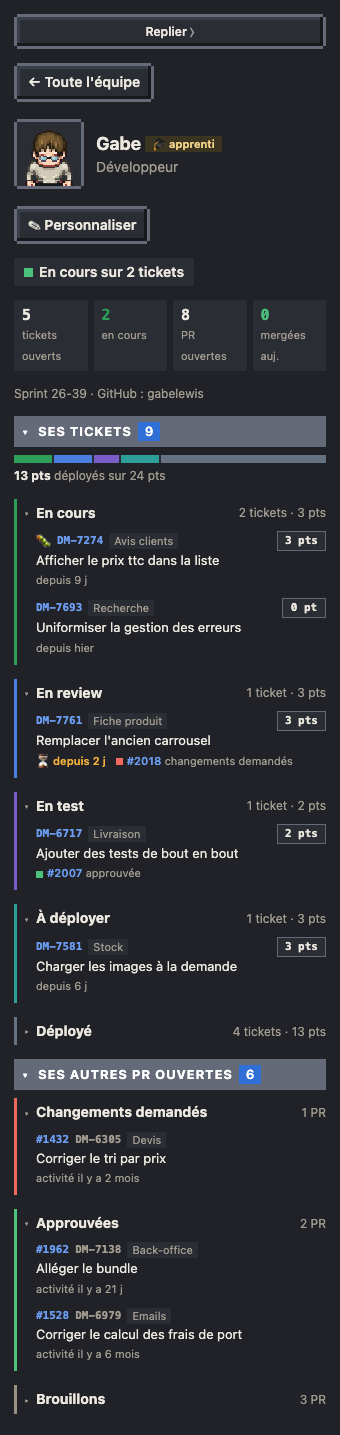
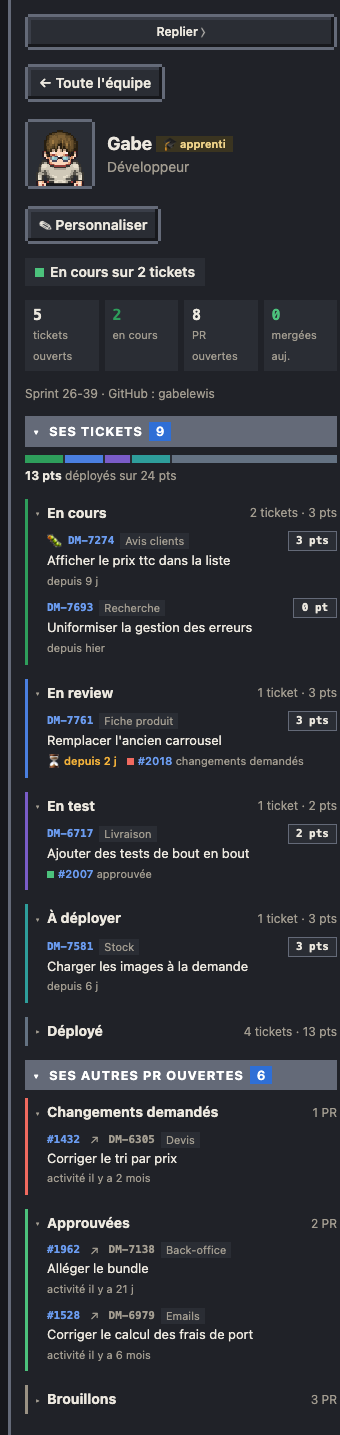
feat(page): état des PR dans « Ses PR ouvertes », le numéro ouvre la fiche de la PR
Dans les listes de PR (fiche d'un collègue, du boss, d'un ticket), le numéro ouvre la fiche de la PR (lien data-pr) et
« ↗ » ouvre GitHub ; chaque ligne montre « ⛔ conflit », « ⟳ n de retard » et « 💬 n fils » non résolus (prMarks).
Jusqu'ici la fiche d'une PR, avec ses pastilles et ses boutons, ne s'ouvrait que depuis le fil.

diff --git a/page/src/60-fiches.js b/page/src/60-fiches.js
@@ -215,7 +215,7 @@ function tkRowHtml(x){
   if(x.status&&x.status===FLOW.reopened)meta.push('<span class="tk-tag">Réouvert</span>');
   for(const p of prsOf(x.key)){
     const r=p.draft?['brouillon','var(--idle)']:TK_REV[p.review]||TK_REV.pending;
-    meta.push(`<span><span class="dot" style="background:${r[1]}"></span><a ${hrefOf(p.url)} target="_blank" rel="noopener">${esc(prNum(p))}</a> ${r[0]}</span>`);
+    meta.push(`<span><span class="dot" style="background:${r[1]}"></span><a href="#" data-pr="${esc(prId(p))}" title="Fiche de la PR">${esc(prNum(p))}</a> ${r[0]}</span>`,...prMarks(p));
   }
   return `<div class="tk-top">${x.type==='Bug'?'<span title="Bug">'+TYPE_ICO.Bug+'</span>':''}<a class="tk-key" href="${JIRA_BROWSE}${encodeURIComponent(x.key)}" target="_blank" rel="noopener" title="Ouvrir dans Jira">${esc(x.key)}</a>`+
     `${comp?`<span class="tk-comp">${esc(comp)}</span>`:''}${tkPts(x.points)}</div>`+
@@ -249,6 +249,14 @@ const prGroup=x=>x.draft?'draft':PR_GROUPS.some(([k])=>k===x.review)?x.review:'p
 const daysAgoTxt=d=>d<1?"aujourd'hui":d<2?'hier':d<60?'il y a '+Math.floor(d)+' j':'il y a '+Math.floor(d/30.4)+' mois';
 // une ligne : n° (lien GitHub), ticket cité (lien Jira, en gris : la PR est l'objet de la ligne), composant ; titre sans « feat(DM-1): » ni « [Composant] » ;
 // dernière activité (orange avec ⏳ si elle attend une review depuis plus de PR_STALE_H heures)
+// état d'une PR dans une liste (#74, #75) : conflit avec sa base, commits de retard, fils de review non résolus
+function prMarks(x){
+  const m=[];
+  if(x.conflict)m.push('<span class="prm err" title="Conflit avec sa base">⛔ conflit</span>');
+  if(x.behind>0)m.push(`<span class="prm" title="Commits de ${esc(x.base||'main')} absents de la PR">⟳ ${x.behind} de retard</span>`);
+  if(x.threads>0)m.push(`<span class="prm" title="Fils de review non résolus">💬 ${x.threads} fil${x.threads>1?'s':''}</span>`);
+  return m;
+}
 function prRowHtml(x){
   let t=String(x.title||'').replace(/^\s*\w+(\([^)]*\))?!?:\s*/,'');
   const {comp,title}=tkComp(t); t=title;
@@ -257,7 +265,8 @@ function prRowHtml(x){
   const stale=!x.draft&&prGroup(x)==='pending'&&s&&T-s>PR_STALE_H*36e5;
   if(stale)meta.push(`<span class="warn" title="Sans review depuis plus de ${PR_STALE_H} h">⏳ attend une review depuis ${daysAgoTxt((T-s)/864e5).replace(/^il y a /,'')}</span>`);
   else if(u&&u<=T)meta.push(`<span>activité ${daysAgoTxt((T-u)/864e5)}</span>`);
-  return `<div class="tk-top"><a class="tk-key" ${hrefOf(x.url)} target="_blank" rel="noopener" title="Ouvrir sur GitHub">${esc(prNum(x))}</a>${keys}`+
+  meta.push(...prMarks(x));
+  return `<div class="tk-top"><a class="tk-key" href="#" data-pr="${esc(prId(x))}" title="Fiche de la PR">${esc(prNum(x))}</a><a class="tk-gh" ${hrefOf(x.url)} target="_blank" rel="noopener" title="Ouvrir sur GitHub">↗</a>${keys}`+
     `${comp?`<span class="tk-comp">${esc(comp)}</span>`:''}</div><div class="tk-t">${esc(t)}</div>${meta.length?`<div class="tk-meta">${meta.join('')}</div>`:''}`;
 }
 function renderPerson(side,c){

diff --git a/tests/tickets-fiche.test.js b/tests/tickets-fiche.test.js
@@ -38,7 +38,7 @@ test('âge : orange avec ⏳ en review au-delà de BLOCKED_DAYS, jamais pour un 
 test('Réouvert (statut jira_flow.reopened), PR du ticket avec leur review, bug signalé', () => {
   const h = row({key: 'DM-2', summary: 'b', cat: 'doing', status: 'Reopen', type: 'Bug', since: '2026-10-07T10:00:00+02:00'});
   assert.match(h, /<span class="tk-tag">Réouvert<\/span>/);
-  assert.match(h, /href="https:\/\/x\/12"[^>]*>#12<\/a> changements demandés/);
+  assert.match(h, /data-pr="[^"]*#12"[^>]*>#12<\/a> changements demandés/);
   assert.match(h, />#14<\/a> brouillon/);
   assert.match(h, /title="Bug">🐛/);
   assert.doesNotMatch(row({key: 'DM-9', summary: 'c', cat: 'doing', status: 'En cours'}), /tk-tag|#12/);
@@ -75,7 +75,11 @@ test('« Ses autres PR » : groupe par état de review, titre sans préfixe, tic
   assert.equal(g({review: 'bizarre'}), 'pending');
   const pr = x => run(`(() => { T = ${T11}; return prRowHtml(${JSON.stringify(x)}); })()`);
   const h = pr({n: 1432, url: 'https://x/1432', title: 'feat(DM-6305): [Devis] Corriger le tri', review: 'changes', keys: ['DM-6305'], updated: '2026-08-07T10:00:00Z'});
-  assert.match(h, /href="https:\/\/x\/1432"[^>]*>#1432<\/a><a class="tk-key tk-cite"[^>]*DM-6305[^>]*>DM-6305<\/a><span class="tk-comp">Devis<\/span>/);
+  // le numéro ouvre la fiche de la PR, « ↗ » ouvre GitHub (#74)
+  assert.match(h, /data-pr="[^"]*#1432"[^>]*>#1432<\/a><a class="tk-gh" href="https:\/\/x\/1432"[^>]*>↗<\/a><a class="tk-key tk-cite"[^>]*DM-6305[^>]*>DM-6305<\/a><span class="tk-comp">Devis<\/span>/);
+  const st = pr({n: 5, title: 'x', review: 'approved', conflict: true, behind: 3, threads: 4});
+  assert.match(st, /⛔ conflit.*⟳ 3 de retard.*💬 4 fils/);
+  assert.doesNotMatch(pr({n: 6, title: 'x', review: 'approved', behind: 0, threads: 0}), /prm/);
   assert.match(h, /<div class="tk-t">Corriger le tri<\/div>/);
   assert.match(h, /activité il y a 2 mois/);
   assert.match(pr({n: 7, title: 'chore: mettre à jour', review: 'approved', updated: '2026-10-06T10:00:00+02:00'}), /tk-t">mettre à jour<\/div>.*activité hier/);

diff --git a/page/src/styles.css b/page/src/styles.css
@@ -298,6 +298,7 @@ body.tv #tvticker{display:block;position:fixed;left:0;right:0;bottom:0;height:48
 .relaunch>button{grid-column:2;grid-row:1/3}
 .relaunch>.note{grid-column:1/3}
 .relaunch.kmodal{display:block}
+.tk-gh{margin:0 4px;font-size:11px;color:var(--muted);text-decoration:none}.prm{font-size:11px;white-space:nowrap}.prm.err{color:var(--err);font-weight:700}
 .prchips{margin-top:6px}.prchip{display:inline-block;font-size:11px;font-weight:700;padding:1px 7px;border-radius:999px;margin:0 6px 4px 0;color:var(--ink);background:color-mix(in srgb,var(--c) 22%,transparent)}.prchip.warn{--c:var(--warn)}.prchip.err{--c:var(--err)}.prchip.ok{--c:var(--ok)}
 .rl-cron{display:block}.rl-cron>button{margin-top:6px}.cronbox{display:flex;gap:10px;align-items:center;margin:6px 0 0}.cronbox .ring{color:var(--accent);flex:none;display:flex}.cronbox b{display:block;font-size:13px}.cronbox small{color:var(--muted);font-size:11px}
 .rl-form{display:block}.rl-f{margin-top:8px}.rl-form>button{width:100%}.rl-form>button:disabled{opacity:.5;cursor:not-allowed}.rl-why{margin:6px 0 0}.rl-f textarea{resize:vertical}

diff --git a/page/src/62-ticket.js b/page/src/62-ticket.js
@@ -89,7 +89,7 @@ function renderTicket(side,key){
     for(const p of prs){
       const r=p.draft?['brouillon','var(--idle)']:TK_REV[p.review]||TK_REV.pending;
       const li=document.createElement('li');
-      li.innerHTML=`<span class="dot" style="background:${r[1]}"></span><a ${hrefOf(p.url)} target="_blank" rel="noopener" style="color:var(--accent);white-space:nowrap">${esc(prNum(p))}</a><span>${esc(p.title)}</span><span class="k">${r[0]}</span>`;
+      li.innerHTML=`<span class="dot" style="background:${r[1]}"></span><a href="#" data-pr="${esc(prId(p))}" title="Fiche de la PR" style="color:var(--accent);white-space:nowrap">${esc(prNum(p))}</a><span>${esc(p.title)}${prMarks(p).map(m=>' '+m).join('')}</span><span class="k">${r[0]}</span>`;
       ul.appendChild(li);
     }
     pb.appendChild(ul);

diff --git a/tests/safeurl.test.js b/tests/safeurl.test.js
@@ -33,7 +33,8 @@ test('lien du fil (extA) et ligne de PR : un schéma refusé donne un lien inact
     const a = J(`extA(${JSON.stringify(u)}, 't', 'y#1')`);
     assert.doesNotMatch(a, /href=/);
     assert.match(a, />y#1<\/a>/); // le texte reste affiché
-    assert.doesNotMatch(J(`prRowHtml({n: 7, title: 'x', url: ${JSON.stringify(u)}})`), /href=/);
+    // le n° ouvre la fiche de la PR (href="#") ; le lien GitHub « ↗ » reste inactif
+    assert.doesNotMatch(J(`prRowHtml({n: 7, title: 'x', url: ${JSON.stringify(u)}})`), /href="(?!#")/);
   }
   assert.match(J(`prRowHtml({n: 7, title: 'x', url: 'https://github.com/x/y/pull/7'})`), /href="https:\/\/github\.com\/x\/y\/pull\/7"/);
 });

diff --git a/CHANGELOG.md b/CHANGELOG.md
@@ -8,7 +8,7 @@ Format : [Keep a Changelog](https://keepachangelog.com/fr/1.1.0/). Versions : `0
 
 ### Ajouté
 
-- Remettre une PR à jour depuis sa fiche (« ⟳ Remettre à jour ») : rebase sur sa base sans squash, push protégé, label de CI reposé ; en cas de conflit, un agent IA le résout, la commande de contrôle du dépôt tourne et tu valides avant tout push (`actions.rebase`, `github.ci_labels`, `github.checks`). La fiche d'une PR montre son état : conflit avec sa base, commits de retard ou à jour (#74).
+- Remettre une PR à jour depuis sa fiche (« ⟳ Remettre à jour ») : rebase sur sa base sans squash, push protégé, label de CI reposé ; en cas de conflit, un agent IA le résout, la commande de contrôle du dépôt tourne et tu valides avant tout push (`actions.rebase`, `github.ci_labels`, `github.checks`). La fiche d'une PR montre son état : conflit avec sa base, commits de retard ou à jour ; dans « Ses PR ouvertes », le numéro ouvre la fiche de la PR (« ↗ » pour GitHub) et chaque ligne montre conflit, retard et fils non résolus (#74).
 - « 🛠 Corriger » sur toute PR qui a des fils de review non résolus, quel que soit son dépôt : Nate corrige les fils actionnables (tests compris), prépare une réponse par fil, et tu valides le diff et les réponses avant le push, les réponses et la résolution des fils corrigés (`actions.fix_pr`, ne remplace pas ton workflow de `launch.fix`) (#75).
 
 ### Modifié

diff --git a/guide/fonctionnalites/07-fiches.md b/guide/fonctionnalites/07-fiches.md
@@ -64,6 +64,8 @@ Rôles et noms par défaut : `impl` → `ticket` (`jira_ticket_key`) ; `mep` →
 
 **PR** : clic sur une PR dans le fil. Son nom avec son dépôt, son titre, l'état de sa review, son auteur (sa fiche), le lien GitHub, le ticket qu'elle cite (sa fiche) et les runs d'agents du jour qui l'ont traitée (une revue de Dwight, une correction). Puis les mêmes boutons que dans la fiche du ticket : **Faire relire** (PR pas encore approuvée) et **Corriger les retours** (changements demandés).
 
+Dans « Ses PR ouvertes » (fiche d'un collègue, du boss ou d'un ticket), le numéro d'une PR ouvre sa fiche (« ↗ » ouvre GitHub) et chaque ligne montre son état : « ⛔ conflit », « ⟳ 3 de retard », « 💬 4 fils » non résolus.
+
 Sous l'auteur, l'état de la PR face à sa branche de base, relu à chaque passage du cron équipe : **⛔ conflit avec main**, **⟳ 4 commits de retard sur main** ou **✓ à jour de main**. **⟳ Remettre à jour** (PR en retard, en conflit, ou d'état encore inconnu) la rejoue sur sa base sans rien écraser :
 - dans une copie du dépôt dédiée au run (`~/.cache/pixel-bureau/pr`), rebase sur sa base avec ses commits gardés tels quels (ni squash ni messages changés) ;
 - sans conflit : push protégé (`--force-with-lease`, refusé si quelqu'un a poussé entre-temps), puis le label de CI du dépôt retiré et reposé ; 0 token ;
